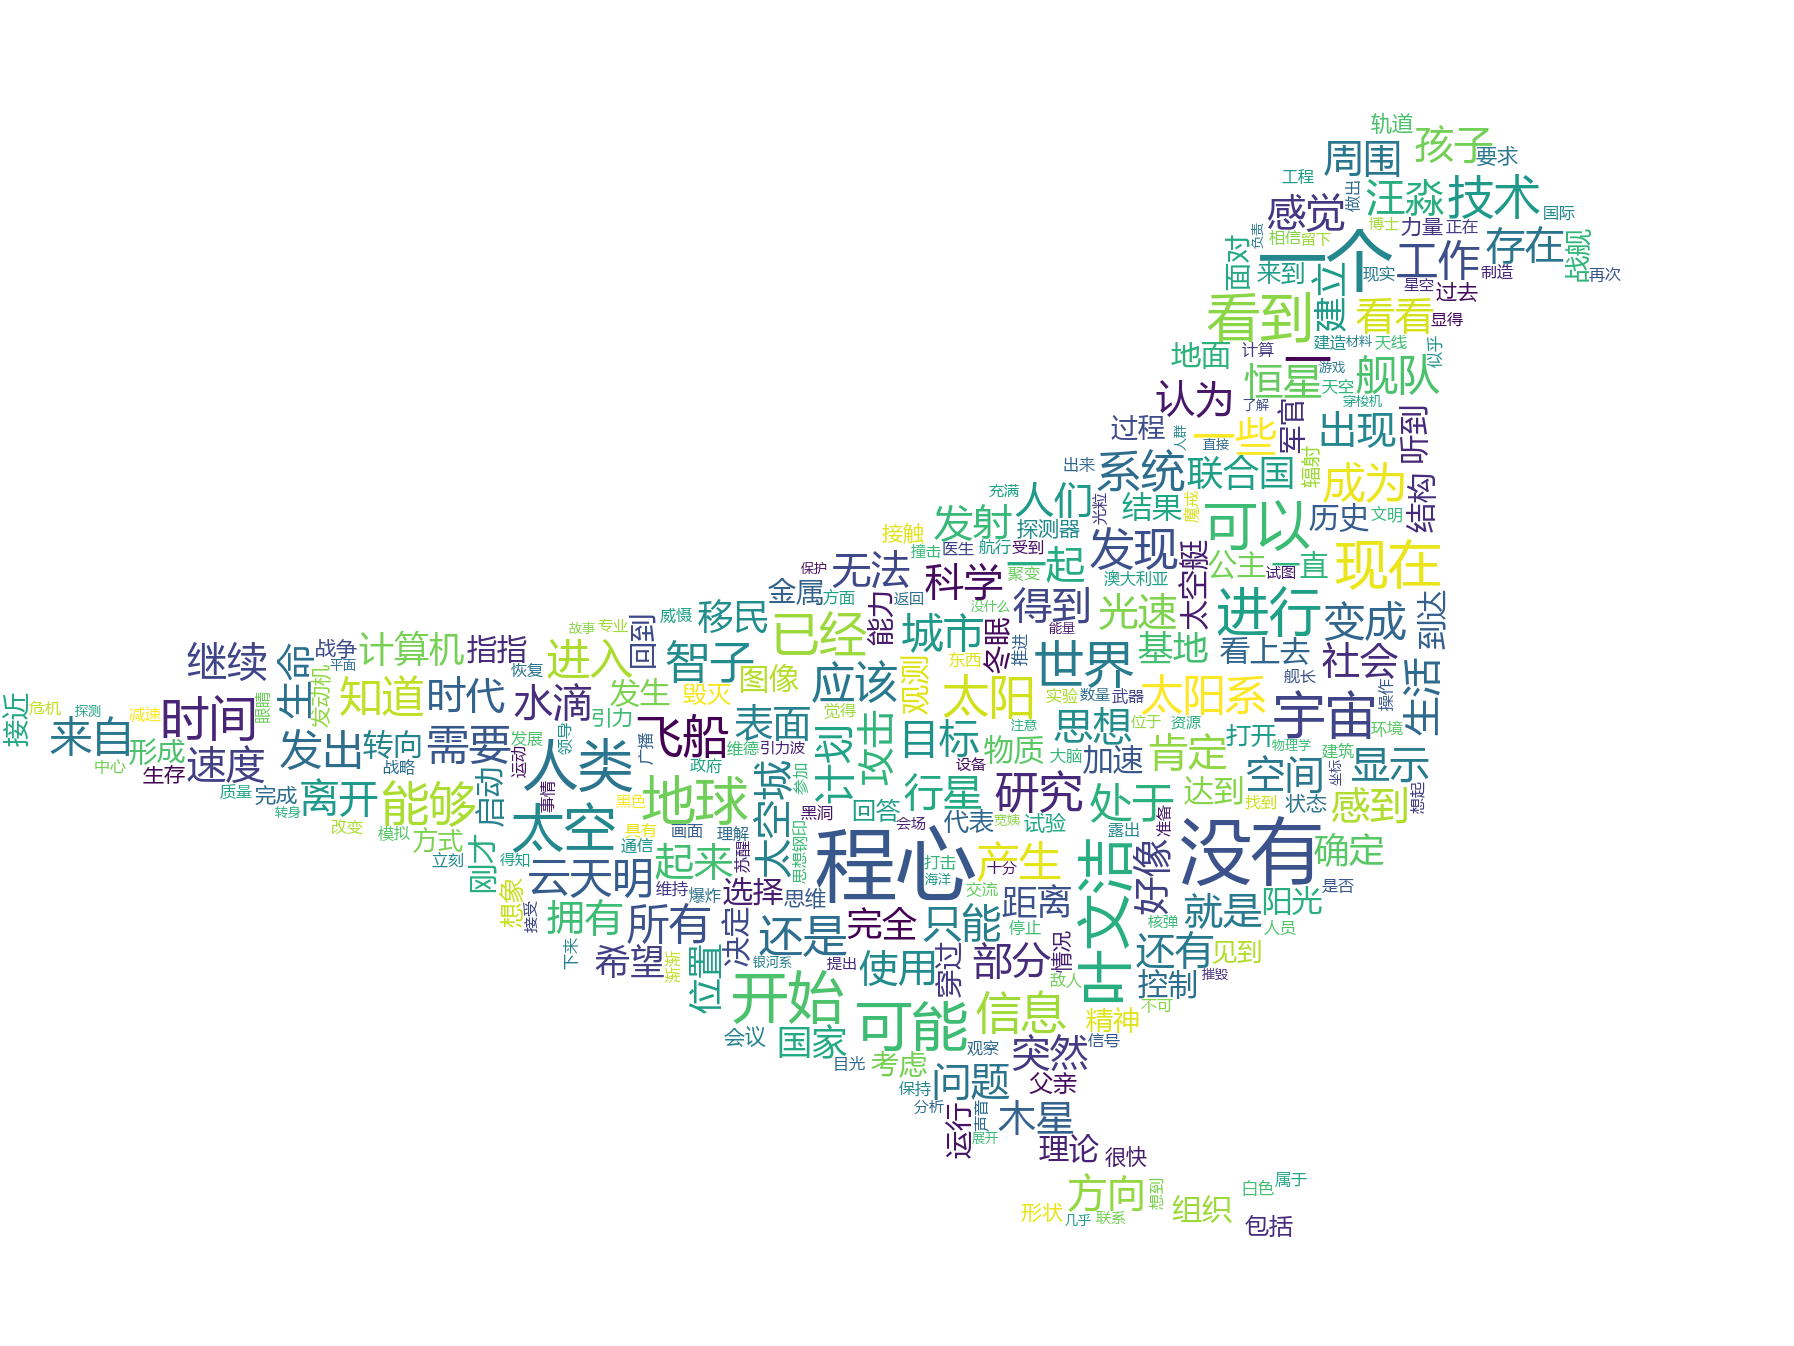
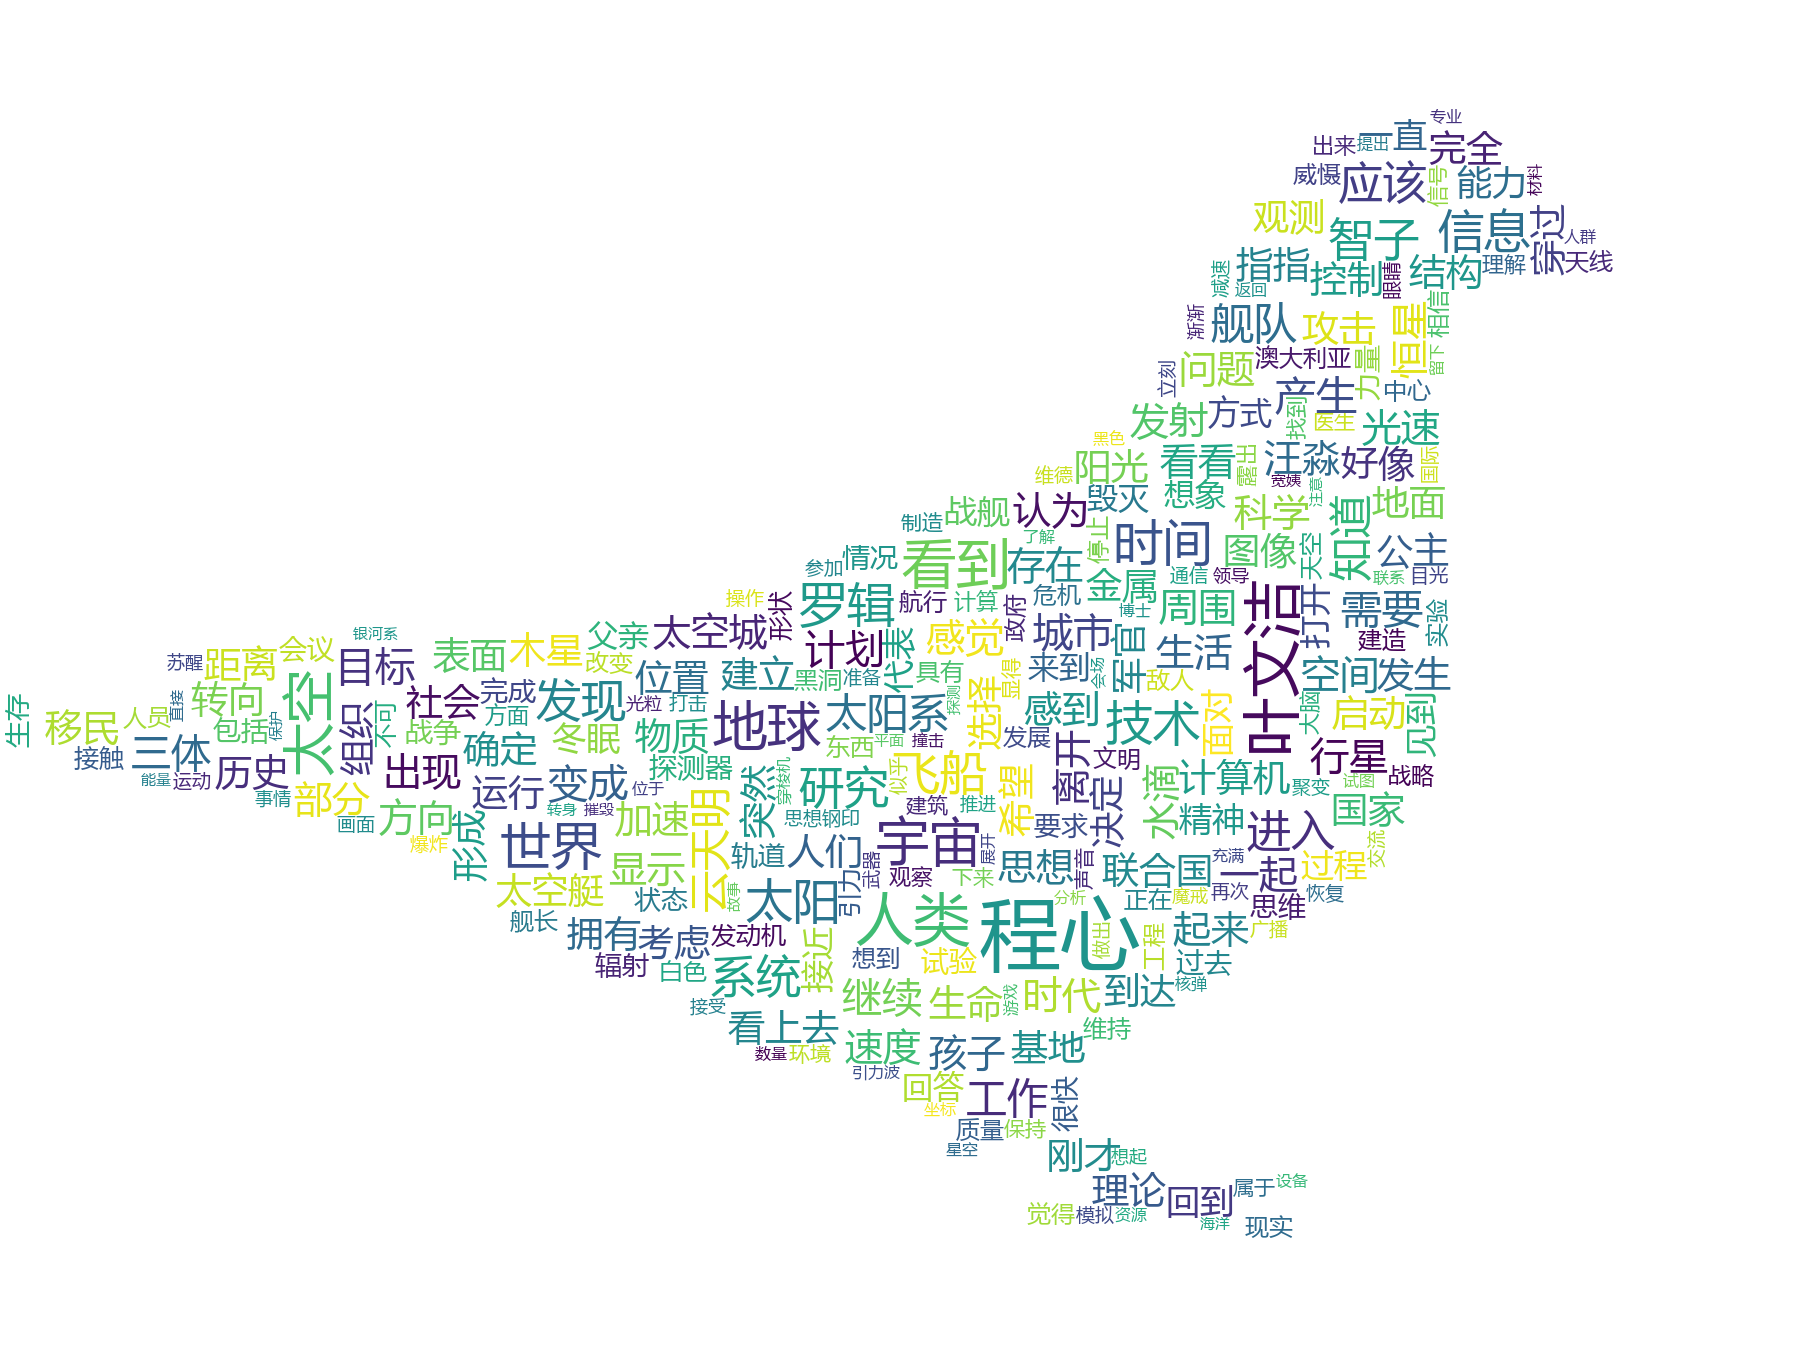
去掉停用词生成三体词云

Changed region(s): [[0.0, 0.0624, 0.9052, 0.9361]]

diff --git a/nlpir_wordCloud.py b/nlpir_wordCloud.py
@@ -1,4 +1,5 @@
 import codecs
+from ctypes import c_char_p
 import pandas as pd
 import numpy as np
 import pynlpir
@@ -15,6 +16,9 @@ matplotlib.rcParams['figure.figsize'] = (10.0, 5.0)
 def st_segment():
     # 分词
     pynlpir.open()
+    # 添加自定义字典
+    nlpir.AddUserWord(c_char_p("三体".encode()))
+    nlpir.AddUserWord(c_char_p("罗辑".encode()))
     # 对文件分词
     nlpir.FileProcess('data/st.txt'.encode("utf-8"),
                       'data/st_seg.txt'.encode("utf-8"), False)
@@ -22,16 +26,19 @@ def st_segment():
 
 
 def st_wordcloud():
-    words_df = pd.read_csv('data/st_seg.txt', index_col=False,names=["segment"],encoding='utf-8')
+    words_df = pd.read_csv('data/st_seg.txt', index_col=False,
+                           names=["segment"], encoding='utf-8')
     # 停用词
     stopwords = pd.read_csv("data/stop_words.txt", index_col=False,
                             quoting=3, sep="\n", names=['stopword'], encoding='utf-8')
 
     print(words_df)
     words_df = words_df[~words_df.segment.isin(stopwords.stopword.tolist())]
-    words_stat = words_df.groupby(by=['segment'])['segment'].agg({"count": np.size})
+    words_stat = words_df.groupby(by=['segment'])[
+        'segment'].agg({"count": np.size})
 
-    words_stat = words_stat.reset_index().sort_values( by=["count"], ascending=False)
+    words_stat = words_stat.reset_index().sort_values(
+        by=["count"], ascending=False)
     word_frequence = {x[0]: x[1] for x in words_stat.head(10).values}
 
     print(word_frequence)
@@ -41,13 +48,31 @@ def st_WordCloud():
     # 生成三体词云
     in_text = codecs.open('data/st.txt', 'r', encoding='UTF-8').read()
     pynlpir.open()
+
+    nlpir.AddUserWord(c_char_p("三体".encode()))
+    nlpir.AddUserWord(c_char_p("罗辑".encode()))
     key_words = pynlpir.get_key_words(in_text, max_words=300, weighted=True)
+    # 停用词
+    stopwords = pd.read_csv("data/stop_words.txt", index_col=False,
+                            quoting=3, sep="\n", names=['stopword'], encoding='utf-8')
+    words = [word for word, wegiht in key_words]
+    keywords_df = pd.DataFrame({'keywords': words})
+    # 去掉停用词
+    keywords_df = keywords_df[~keywords_df.keywords.isin(
+        stopwords.stopword.tolist())]
+
+    word_freq = []
+    for word in keywords_df.keywords.tolist():
+        for w, k in key_words:
+            if word == w:
+                word_freq.append((word, k))
+
     pynlpir.close()
-    print(key_words)
+    print(word_freq)
 
     font = r'C:\Windows\Fonts\msyh.ttc'  # 指定字体，不指定会报错
-    color_mask = imread("resource/ge.jpg")  # 读取背景图片
-
+    # color_mask = imread("resource/ge.jpg")  # 读取背景图片
+    color_mask = imread("resource/timg.jpg")  # 读取背景图片
     wcloud = WordCloud(
         font_path=font,
         # 背景颜色
@@ -55,16 +80,16 @@ def st_WordCloud():
         # 词云形状
         mask=color_mask,
         # 允许最大词汇
-        max_words=1000,
+        max_words=2000,
         # 最大号字体
         max_font_size=80)
 
-    wcloud.generate_from_frequencies(dict(key_words))
+    wcloud.generate_from_frequencies(dict(word_freq))
     # 以下代码显示图片
     plt.imshow(wcloud)
     plt.axis("off")
     plt.show()
-    wcloud.to_file("data/wcimage/三体词云_1.png")
+    wcloud.to_file("data/wcimage/三体词云_2.png")
 
 
 if __name__ == '__main__':
@@ -72,4 +97,3 @@ if __name__ == '__main__':
     st_WordCloud()
     # st_segment()
     # st_wordcloud()
- 
